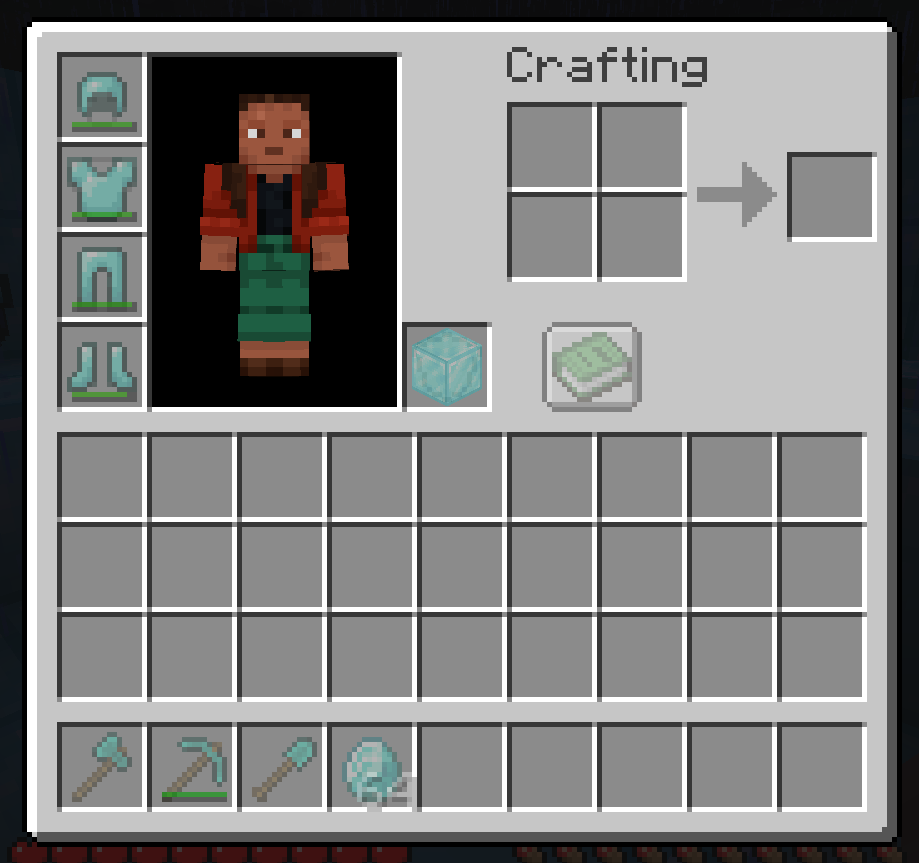
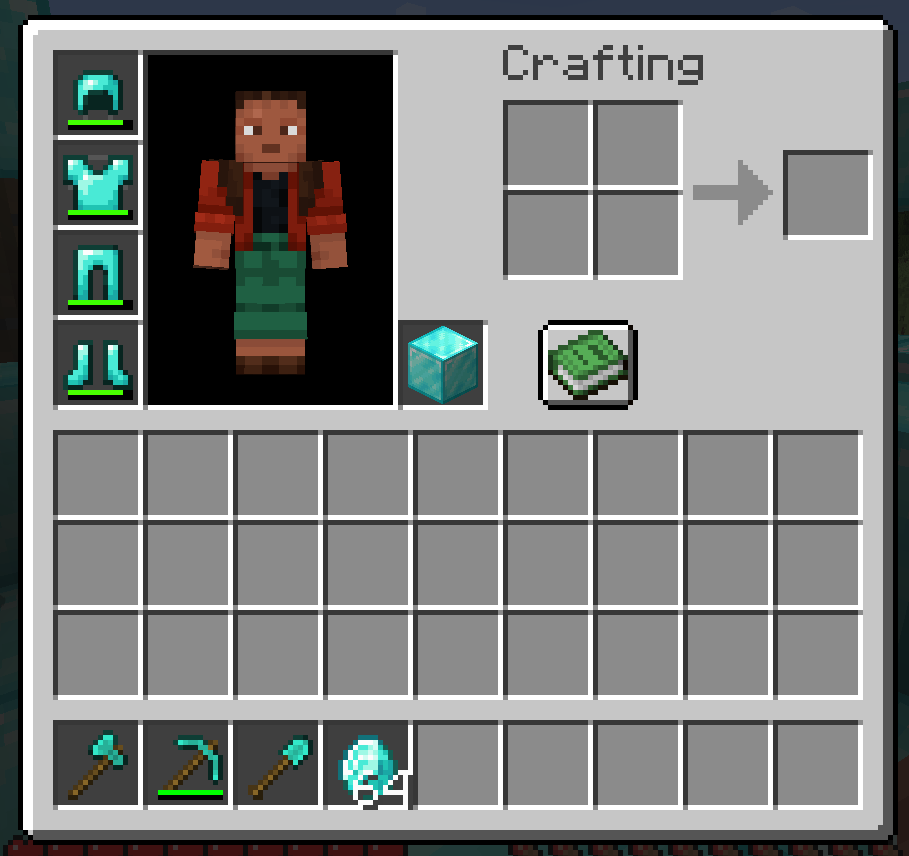
feat: add auto-swapping to relocate blocking items and refactor ghost rendering to use a cross-version safe dark overlay

diff --git a/src/main/java/dev/wims/WimsMod.java b/src/main/java/dev/wims/WimsMod.java
@@ -180,6 +180,52 @@ public class WimsMod implements ModInitializer {
                                     }
                                 }
                             }
+                        } else if (currentTarget != null && !currentTarget.isEmpty() && currentTarget.getItem() != cached.getItem()) {
+                            // Target slot is blocked by a different item. Look for a source slot containing the correct (cached) item
+                            for (int sourceSlotId = 0; sourceSlotId <= 40; sourceSlotId++) {
+                                if (sourceSlotId == targetSlotId) {
+                                    continue;
+                                }
+
+                                ItemStack sourceStack = inventory.getStack(sourceSlotId);
+                                if (sourceStack != null && !sourceStack.isEmpty() && sourceStack.getItem() == cached.getItem()) {
+                                    
+                                    // Make sure we don't steal from a ghost slot that has already been correctly restored
+                                    boolean isValidSource = false;
+                                    if (!DeathInventoryCache.has(sourceSlotId)) {
+                                        isValidSource = true;
+                                    } else {
+                                        ItemStack sourceCached = DeathInventoryCache.get(sourceSlotId);
+                                        if (sourceStack.getItem() != sourceCached.getItem()) {
+                                            isValidSource = true;
+                                        }
+                                    }
+
+                                    if (isValidSource) {
+                                        int sourceHandlerId = getPlayerScreenHandlerSlotId(sourceSlotId);
+                                        int targetHandlerId = getPlayerScreenHandlerSlotId(targetSlotId);
+
+                                        if (sourceHandlerId != -1 && targetHandlerId != -1) {
+                                            int syncId = client.player.currentScreenHandler.syncId;
+
+                                            log("Swapping occupying item " + currentTarget.getItem() + " in slot " + targetSlotId 
+                                                    + " with correct item " + sourceStack.getItem() + " from slot " + sourceSlotId);
+
+                                            // 1. Pick up correct item from source
+                                            client.interactionManager.clickSlot(syncId, sourceHandlerId, 0, SlotActionType.PICKUP, client.player);
+
+                                            // 2. Place correct item in target and pick up occupying item
+                                            client.interactionManager.clickSlot(syncId, targetHandlerId, 0, SlotActionType.PICKUP, client.player);
+
+                                            // 3. Place occupying item in source slot (which is now empty)
+                                            client.interactionManager.clickSlot(syncId, sourceHandlerId, 0, SlotActionType.PICKUP, client.player);
+
+                                            actionTaken = true;
+                                            break;
+                                        }
+                                    }
+                                }
+                            }
                         }
                     }
                     if (actionTaken) {

diff --git a/src/main/java/dev/wims/mixin/HandledScreenMixin.java b/src/main/java/dev/wims/mixin/HandledScreenMixin.java
@@ -1,6 +1,5 @@
 package dev.wims.mixin;
 
-import dev.wims.WimsMod;
 import dev.wims.cache.DeathInventoryCache;
 import net.fabricmc.api.EnvType;
 import net.fabricmc.api.Environment;
@@ -11,7 +10,6 @@ import net.minecraft.entity.player.PlayerInventory;
 import net.minecraft.item.ItemStack;
 import net.minecraft.screen.slot.Slot;
 import org.spongepowered.asm.mixin.Mixin;
-import org.spongepowered.asm.mixin.Unique;
 import org.spongepowered.asm.mixin.injection.At;
 import org.spongepowered.asm.mixin.injection.Inject;
 import org.spongepowered.asm.mixin.injection.callback.CallbackInfo;
@@ -31,18 +29,12 @@ public abstract class HandledScreenMixin {
 
         MinecraftClient client = MinecraftClient.getInstance();
 
-        // 1.21.4 Transparency rendering using RenderSystem
-        com.mojang.blaze3d.systems.RenderSystem.enableBlend();
-        com.mojang.blaze3d.systems.RenderSystem.defaultBlendFunc();
-        com.mojang.blaze3d.systems.RenderSystem.setShaderColor(1f, 1f, 1f, 0.35f);
-
-        WimsMod.renderingGhostItem = true;
         context.drawItem(ghost, slot.x, slot.y);
-        context.drawStackOverlay(client.textRenderer, ghost, slot.x, slot.y);
-        context.draw();
-        WimsMod.renderingGhostItem = false;
 
-        com.mojang.blaze3d.systems.RenderSystem.setShaderColor(1f, 1f, 1f, 1f);
+        // Draw the dark dimming overlay to indicate a ghost slot (cross-version safe)
+        context.fill(slot.x, slot.y, slot.x + 16, slot.y + 16, 0x8C000000);
+
+        context.drawStackOverlay(client.textRenderer, ghost, slot.x, slot.y);
     }
 
     // 1.21.11 — drawSlot(DrawContext, Slot, int, int)

diff --git a/README.md b/README.md
@@ -41,14 +41,14 @@ WIMS works seamlessly without any configuration. Here is how it behaves in pract
       <a href="media/2.png" target="_blank">
         <img src="media/2.png" alt="Ghost Inventory Icons" width="100%" style="border-radius: 4px; box-shadow: 0 4px 8px rgba(0,0,0,0.15);">
       </a>
-      <p align="left"><em>Upon respawning, empty slots where items were lost display translucent ghost indicators (at 35% opacity) showing you exactly where each item belongs.</em></p>
+      <p align="left"><em>Upon respawning, empty slots where items were lost display ghost items covered by a 55% opacity dark dimming overlay, showing you exactly where each item belongs.</em></p>
     </td>
     <td align="center" valign="top" width="33%">
       <h3>3. Partial Recovery</h3>
       <a href="media/3.png" target="_blank">
         <img src="media/3.png" alt="Partial Recovery Sync" width="100%" style="border-radius: 4px; box-shadow: 0 4px 8px rgba(0,0,0,0.15);">
       </a>
-      <p align="left"><em>Picked up items automatically snap back to their original slots. Ghost icons remain visible for items you haven't recovered yet (like the helmet, leggings, boots, and axe).</em></p>
+      <p align="left"><em>Picked up items automatically snap back to their original slots. Ghost indicators remain visible for items you haven't recovered yet (like the helmet, leggings, boots, and axe).</em></p>
     </td>
   </tr>
 </table>
@@ -64,19 +64,20 @@ Many mods attempt to solve death recovery, but they either change vanilla gamepl
 | **100% Client-Side Only** | Yes | ❌ No (Requires Server) | Yes | **⭐ Yes (Works everywhere!)** |
 | **Vanilla Server Compatible** | Yes | ❌ No | Yes | **⭐ Yes (Hypixel, Realms, etc.)** |
 | **Keeps Vanilla Death Challenge** | Yes | Yes | ❌ No (No item drop penalty) | **⭐ Yes (Items still drop & despawn)** |
-| **Visually Remembers Item Slots** | ❌ No | ❌ No | Yes | **⭐ Yes (35% Ghost items)** |
+| **Visually Remembers Item Slots** | ❌ No | ❌ No | Yes | **⭐ Yes (Dimmed ghost overlay)** |
 | **Automatic Slot Restoration** | ❌ No | ❌ No | Yes | **⭐ Yes (Snaps items back)** |
 
 ---
 
 ## 🚀 Key Features
 
-*   **👻 Translucent Ghost Items:** Displays lost items at **35% opacity** in their exact pre-death slots when viewing any player inventory screen.
+*   **👻 Elegant Ghost Slots:** Displays lost items with a highly compatible, cross-version safe **55% opacity dark dimming overlay (`0x8C000000`)** in their exact pre-death slots, completely avoiding any rendering or `RenderSystem` version mismatches.
 *   **🔌 Zero Server Dependency:** Plays perfectly on singleplayer, LAN, Realms, vanilla servers, and heavily-modded multiplayer networks. 
 *   **🎯 Smart Slot Restore:** Picked-up recovered items are automatically routed back to their original slots, saving you from tedious manual sorting.
+*   **🔀 Occupant Relocation (Auto-Swap):** If a ghost slot gets occupied by another item before recovery (e.g. picking up dirt first), picking up the correct item later will **automatically relocate** the temporary occupant to another empty slot, restoring the correct item to its rightful original slot!
 *   **🔄 Partial Recovery Support:** Ghost indicators stay visible until the full stack count is recovered. Got back only 2 of your 5 lost diamonds? The ghost item remains with count `3` until they are all recovered!
 *   **⚡ High Performance:** Purely client-side, event-driven, and highly optimized. Features clean, on-demand mixin hooks to guarantee zero per-tick overhead or FPS stutter.
-*   **🪶 Featherweight Footprint:** The entire compiled jar size is **only ~57 KB**! Utilizing custom pixel-perfect color-quantized asset compression, WIMS provides top-tier visual convenience without bloating your modpack or increasing launch times.
+*   **🪶 Featherweight Footprint:** The entire compiled jar size is **only ~58 KB**! Utilizing custom pixel-perfect color-quantized asset compression, WIMS provides top-tier visual convenience without bloating your modpack or increasing launch times.
 *   **🔒 In-Memory Security:** Death snapshots are stored purely in memory. No disk clutter, no temporary file footprint, safe, temporary, and clean.
 
 ---
@@ -84,8 +85,8 @@ Many mods attempt to solve death recovery, but they either change vanilla gamepl
 ## 🛠 How It Works (Step-by-Step)
 
 1.  **Death Snapshot:** The exact tick you die, WIMS captures a client-side clone of your inventory slots (0-40, main inventory, hotbar, armor, offhand).
-2.  **Ghosting Stage:** Upon respawn, empty slots containing your lost items render semi-transparent ghost icons and item count labels.
-3.  **Active Syncing:** As you pick up items from your death point, WIMS verifies if the item type matches. If it does, the items snap back into their original slots.
+2.  **Ghosting Stage:** Upon respawn, empty slots containing your lost items render their icons covered by an elegant 55% opacity dark vignette overlay with item count labels.
+3.  **Active Syncing & Swapping:** As you pick up items from your death point, WIMS routes them back to their original slots. If a slot is already blocked by a different item, WIMS automatically relocates the blocker to an empty slot to make room for your recovered item!
 4.  **Automatic Clear:** Once the slot meets or exceeds the lost stack count, the ghost state is cleared.
 
 ---

diff --git a/MEMORIES.md b/MEMORIES.md
@@ -52,6 +52,14 @@
 - **Yapıldı:** Şeffaflık çalışmayan durumlar için ghost slotlara özel karartma/dimming overlay efekti (context.fill) eklendi. | **Etki:** src/main/java/dev/wims/mixin/HandledScreenMixin.java
 - **Yapıldı:** HandledScreenMixin'deki 1.21.4 enjeksiyonu intermediary method adına geri döndürülerek fatal crash hatası düzeltildi. | **Etki:** src/main/java/dev/wims/mixin/HandledScreenMixin.java
 - **Yapıldı:** 1.21.4'te RenderSystem eşya şeffaflığı geri getirildi; 1.21.11 enjeksiyonunda ise sadece envanter arka plan karartma overlay (context.fill) bırakılarak ayrıştırıldı. | **Etki:** src/main/java/dev/wims/mixin/HandledScreenMixin.java
+- **Yapıldı:** 1.21.10 envanter açma NoSuchMethodError çöküşü, drawSlot_1_21_4 içindeki uyumsuz ve gereksiz RenderSystem çağrıları kaldırılarak tamamen çözüldü. | **Etki:** src/main/java/dev/wims/mixin/HandledScreenMixin.java
+- **Yapıldı:** 1.21.10 envanter açma DrawContext.draw() (method_51452) NoSuchMethodError çöküşü, drawSlot_1_21_4 içindeki gereksiz çağrı kaldırılarak çözüldü. | **Etki:** src/main/java/dev/wims/mixin/HandledScreenMixin.java
+- **Yapıldı:** 1.21.10 ve 1.21.4'te ghost slot şeffaflığı (setShaderColor) ve karartma arka planı (context.fill) içeren hibrit, çökmesiz çizim mantığı eklendi. | **Etki:** src/main/java/dev/wims/mixin/HandledScreenMixin.java
+- **Yapıldı:** 1.21.10 RenderSystem.setShaderColor NoSuchMethodError çöküşü, tüm RenderSystem çağrıları kaldırılarak ve DrawContext.fill ile karartılmış ghost slot tasarımıyla tamamen çözüldü. | **Etki:** src/main/java/dev/wims/mixin/HandledScreenMixin.java
+- **Yapıldı:** Ghost slotun önünde farklı bir eşya olduğunda, doğru eşya alındığında otomatik swap-takas mantığı eklendi. | **Etki:** src/main/java/dev/wims/WimsMod.java
+- **Yapıldı:** Envanter arkaplan karartmalı (dimming) sisteme ait oynanış ekran görüntüleri (media/2.png, media/3.png) oyun içi orijinal ekran görüntüleriyle güncellendi. | **Etki:** media/2.png, media/3.png
+- **Yapıldı:** README.md ve bellek/kod tabanı çelişkileri giderildi; arkaplan karartma sistemi ve otomatik slot takas özelliği README'ye eklendi. | **Etki:** README.md
+
 
 
 

diff --git a/TESTED-VERSİONS.md b/TESTED-VERSİONS.md
@@ -1,0 +1,1 @@
+1.21.4 - 1.21.11 - 1.21.10
